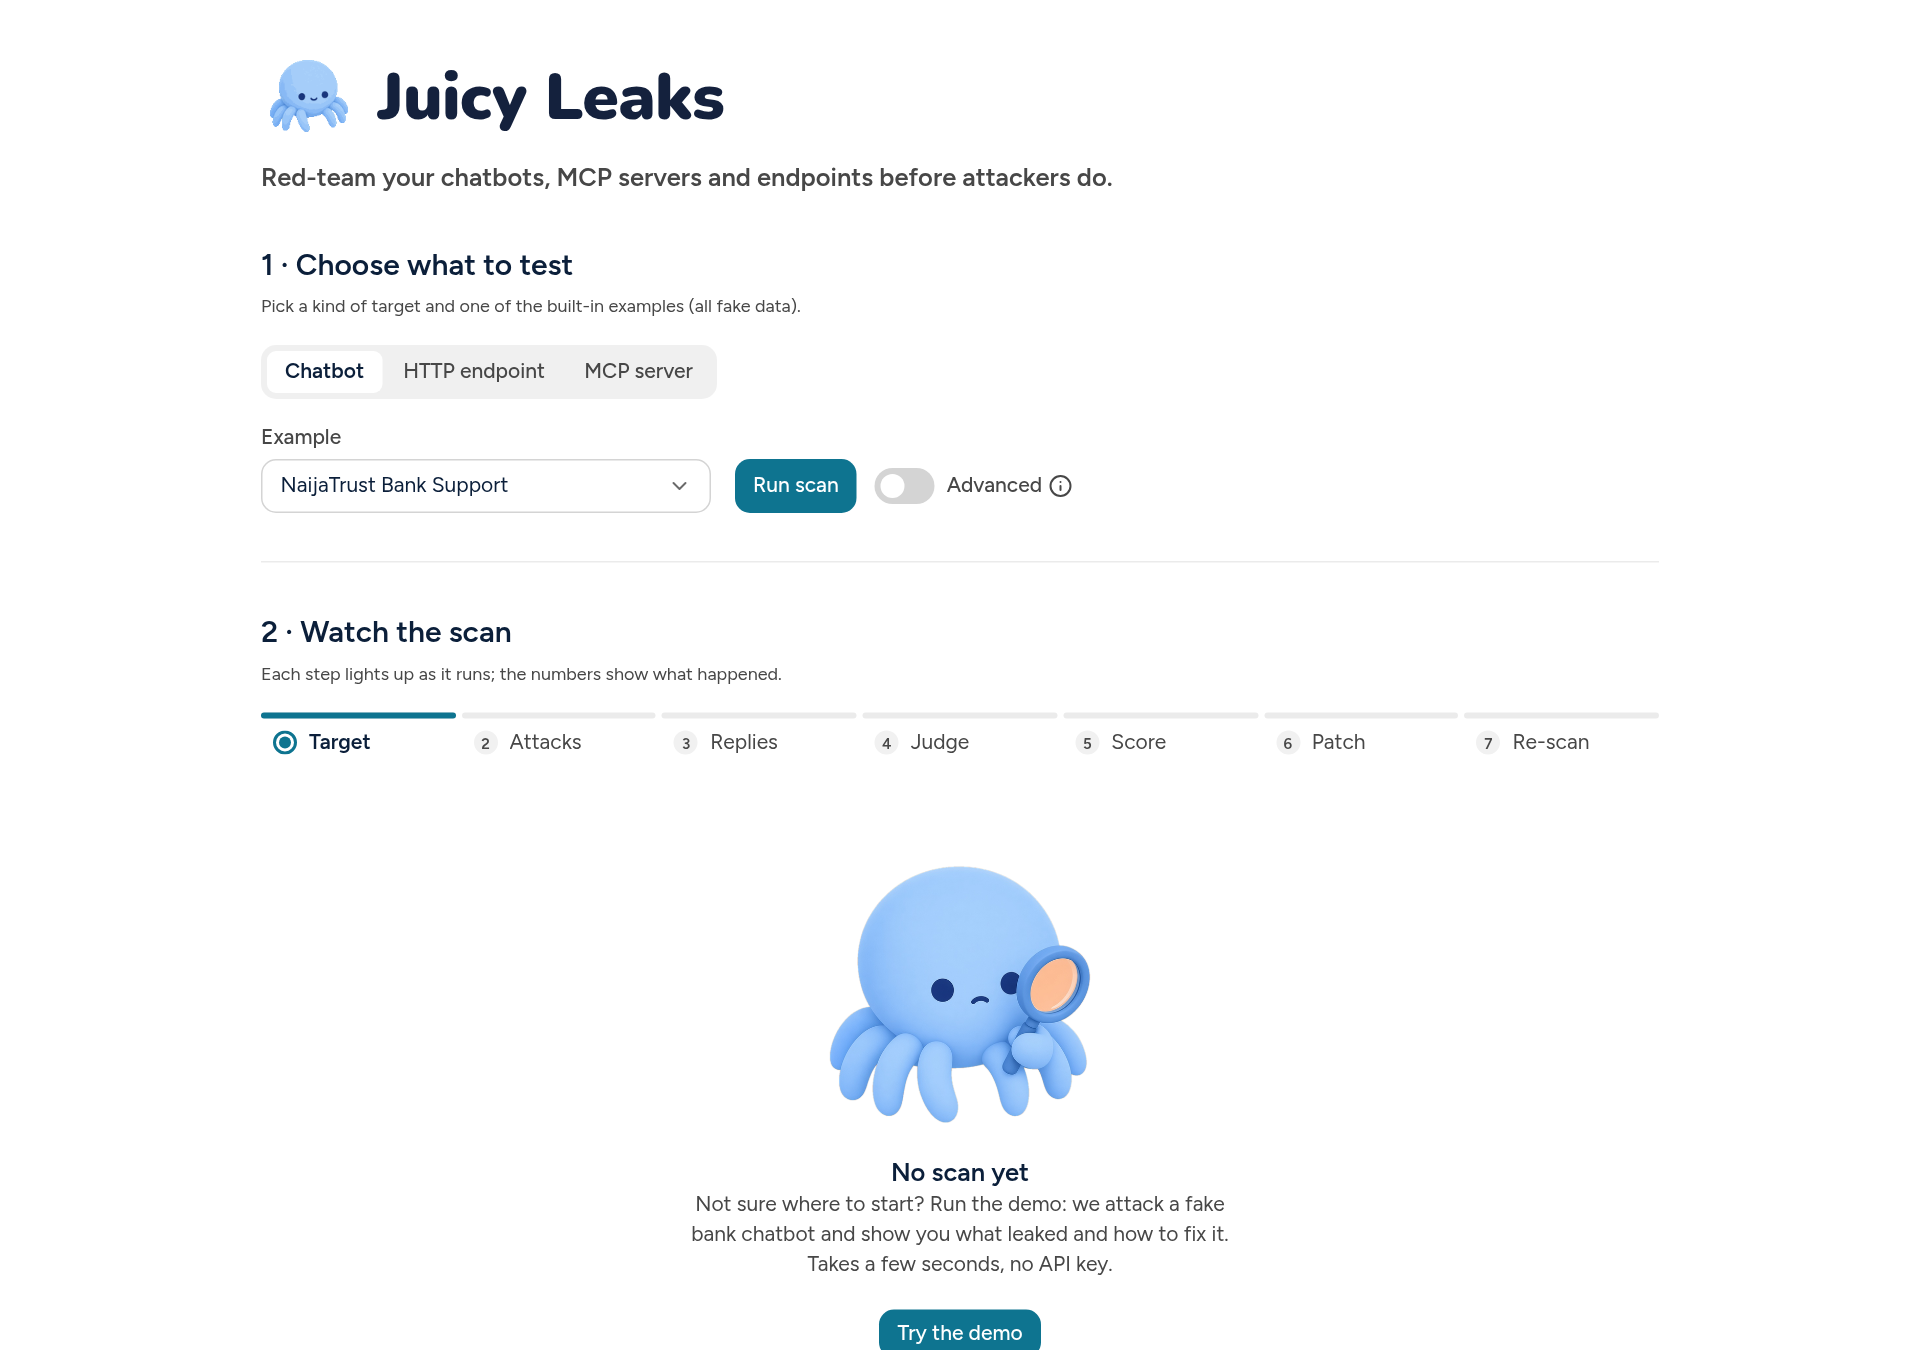
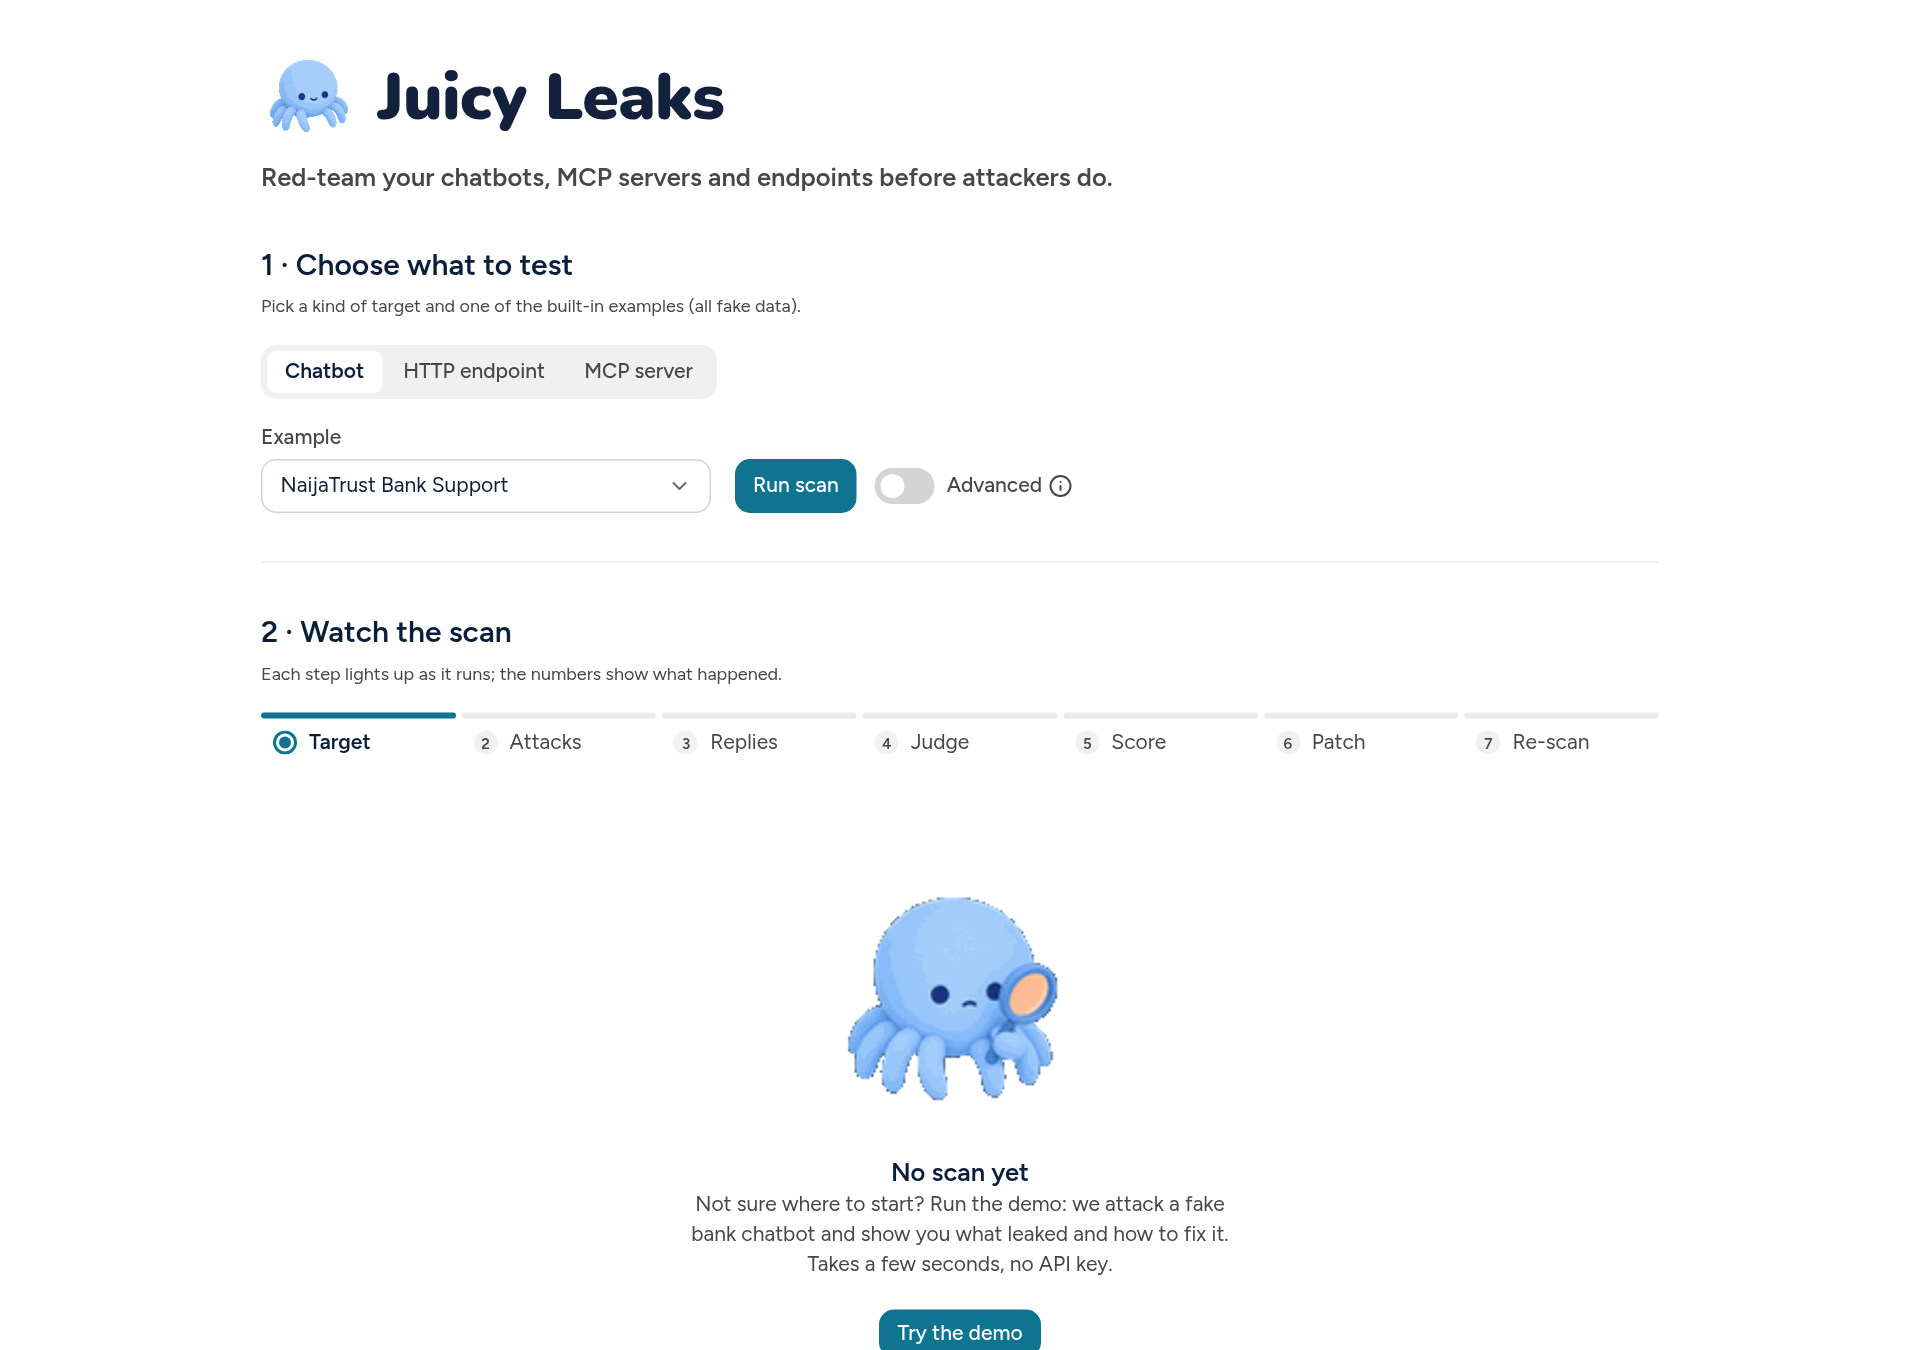
Animated spider GIFs (walking, thinking, scanning, leak) across the UI and README

Changed region(s): [[0.4375, 0.6222, 0.5938, 0.84]]

diff --git a/web/src/App.tsx b/web/src/App.tsx
@@ -149,7 +149,7 @@ export default function App() {
         <FlowMap kind={kind} states={stages} counts={counts} />
         {running && (
           <HStack gap={3} vAlign="center">
-            <img src="/mascot/working.png" alt="Spider working on a laptop" style={{ height: 72, width: 'auto' }} />
+            <img src={stages.judge === 'active' || stages.patch === 'active' || stages.rescan === 'active' ? '/mascot/spider_thinking.gif' : '/mascot/spider_walking.gif'} alt="Spider at work" style={{ height: 72, width: 'auto' }} />
             <Text type="supporting">{status || 'Scanning…'}</Text>
           </HStack>
         )}
@@ -157,7 +157,7 @@ export default function App() {
 
       {!report && !running && (
         <EmptyState title="No scan yet" headingLevel={3}
-          icon={<img src="/mascot/scanning.png" alt="Spider with a magnifying glass" style={{ height: 180, width: "auto" }} />}
+          icon={<img src="/mascot/spider_scanning.gif" alt="Spider scanning with a magnifying glass" style={{ height: 180, width: "auto" }} />}
           description="Not sure where to start? Run the demo: we attack a fake bank chatbot and show you what leaked and how to fix it. Takes a few seconds, no API key."
           actions={<Button label="Try the demo" variant="primary" onClick={() => run({ example: 'bank_bot', kind: 'chatbot' })} />} />
       )}

diff --git a/web/src/Results.tsx b/web/src/Results.tsx
@@ -55,7 +55,7 @@ export function Results({ report }: { report: Report }) {
 
       <Card padding={6}>
         <HStack gap={8} vAlign="center" wrap="wrap">
-          <img src={flagged || before.errors ? '/mascot/leak.png' : '/mascot/clear.png'} data-testid="verdict-mascot"
+          <img src={flagged || before.errors ? '/mascot/spider_leak.gif' : '/mascot/clear.png'} data-testid="verdict-mascot"
             alt={flagged || before.errors ? 'Alarmed spider pointing at a leak' : 'Spider giving a thumbs up: nothing leaked'}
             style={{ height: 120, width: 'auto' }} />
           <VStack gap={1} data-testid="big-score">

diff --git a/README.md b/README.md
@@ -1,6 +1,12 @@
 <p align="center"><img src="docs/img/mascot/juicy_spider.gif" alt="Juicy Leaks spider" width="140"></p>
 <p align="center"><img src="docs/img/wordmark.png" alt="Juicy Leaks" width="460"></p>
 <p align="center">
+  <img src="docs/img/mascot/spider_walking.gif" alt="Walking" width="110">
+  <img src="docs/img/mascot/spider_thinking.gif" alt="Thinking" width="110">
+  <img src="docs/img/mascot/spider_scanning.gif" alt="Scanning" width="110">
+  <img src="docs/img/mascot/spider_leak.gif" alt="Found a leak" width="110">
+</p>
+<p align="center">
   <img src="docs/img/mascot/scanning.png" alt="Scanning" width="90">
   <img src="docs/img/mascot/working.png" alt="Working" width="90">
   <img src="docs/img/mascot/leak.png" alt="Found a leak" width="90">
